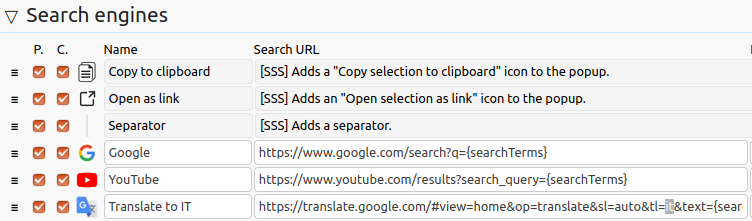
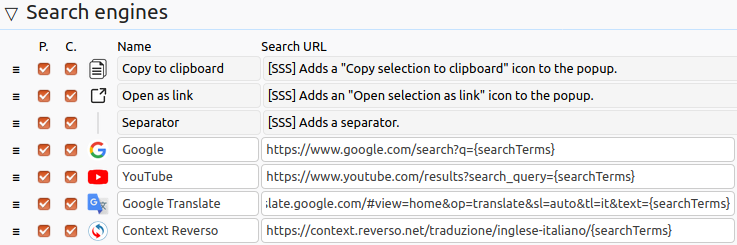
2020-09-28

Changed region(s): [[0.0, 0.0, 1.0, 1.0], [0.9986, 0.19, 1.0, 0.2443], [0.9986, 0.9774, 1.0, 1.0]]

diff --git a/_posts/2020-09-20-browser-configuration.md b/_posts/2020-09-20-browser-configuration.md
@@ -13,7 +13,11 @@ mathjax: "true"
 1. [ClearURLs](https://addons.mozilla.org/it/firefox/addon/clearurls/): rimuove il redirect di Google e altri siti. Richiede diversi permessi ma è tutto [giustificato](https://gitlab.com/KevinRoebert/ClearUrls/-/issues/159). Il redirect consiste in una estensione automatica dei link (ad esempio una ricerca su Google) in modo tale da tracciare chi usa quel collegamento. Questo significa che oltre a regalare i dati di dove navighi, rallenti la tua connessione perché prima di raggiungere il sito d'interesse passi dall'intermediario che ti sta tracciando con il link "sporco". Hai mai notato che ogni tanto se copi un collegamento risultante dalla ricerca su Google, questo è molto più lungo e contorto di quello che ti aspettavi?
 1. [Privacy Badger](https://addons.mozilla.org/it/firefox/addon/privacy-badger17/): blocca trackers
 1. [HTTPS Everywhere](https://addons.mozilla.org/it/firefox/addon/https-everywhere/): il protocollo HTTP manca dei meccanismi di sicurezza, questa estensione forza il sito alla versione HTTPS se presente ma non è il default
-1. [Swift Selection Search](https://addons.mozilla.org/en-US/firefox/addon/swift-selection-search/): evidenzia una parola con doppio click, si aprirà un popup che ti da delle opzioni configurabili, come cerca su Google, traduci etc. Qui la mia semplice configurazione, ho modificato solo "Translate to IT" sostituendo la parte finale "en&text={searchTerms}" in "it&text={searchTerms}", così da poter tradurre la parola evidenziata in italiano. Si può aggiungere facilmente anche Context Reverso con la stringa "https://context.reverso.net/traduzione/inglese-italiano/{searchTerms}".
+1. [Swift Selection Search](https://addons.mozilla.org/en-US/firefox/addon/swift-selection-search/): evidenzia una parola con doppio click, si aprirà un popup che ti da delle opzioni configurabili, come cerca su Google, traduci etc. Qui la mia semplice configurazione, ho modificato solo "Translate to IT" sostituendo la parte finale *en&text={searchTerms}*" in "*it&text={searchTerms}*", così da poter tradurre la parola evidenziata in italiano. Si può aggiungere facilmente anche Context Reverso con la stringa "*https://context.reverso.net/traduzione/inglese-italiano/{searchTerms}*". Personalmente preferisco attivare l'opzione 
+<span style="font-size: 3mm">
+Popup/icons behaviour → Left mouse button click → Open in new tab (next to current)   
+</span>
+così si apre in una nuova finestra.
 ![png](/assets/images/swift_selection_search.png)
 1. (Avanzato) [NoScript](https://addons.mozilla.org/it/firefox/addon/noscript/): ogni volta che si naviga un sito si sceglie se considerarlo come TRUSTED oppure si concedono solo alcune caratteristiche. Al primo utilizzo ho configurato tutti i siti pre-impostati TRUSTED in Default e in Appereance ho attivato High contrast per rendere più fruibile il popup. NB: se non si abilita come TRUSTED Google, ClearURLS non funge da clear link (immagino valga anche per Facebook e altri trash-redirect-linkers).
 
@@ -22,6 +26,7 @@ mathjax: "true"
 1. [Hard Refresh Button](https://addons.mozilla.org/it/firefox/addon/hard-refresh-button/): refresh della pagina senza uso cache
 1. [Facebook Container](https://addons.mozilla.org/it/firefox/addon/facebook-container/): non necessario per me perché uso un browser a parte per usare solo facebook, ma è essenziale per chi usa un solo browser per limitare che facebook tracci la tua attività web.
 1. [KeePass](https://addons.mozilla.org/firefox/addon/keefox/): ottimo gestore di password opensource. Non è semplicemente un'estensione ma si incronizza con il programma in locale. Su Ubuntu 18.04 l'installazione è un po' più complessa se si vuole usare [Google Drive](https://www.albgri.com/ubuntu-software/#keepass-2x) per mantenere il database di password online. Su [Windows](https://www.albgri.com/windows10-software/#keepass-2x) c'è una procedura analoga se lo si vuole sincronizzare con Google Drive.
+1. [Search by Image](https://addons.mozilla.org/it/firefox/addon/search_by_image/) ricerca l'immagine su Google immagini ed altri simili. Fa risparmiare tempo!
 
 **Estensioni abbandonate**
 1. [Ghostery](https://addons.mozilla.org/it/firefox/addon/ghostery/): blocca trackers e velocizza la navigazione, ma a quanto pare è opensource solo dal 2018 e raccoglieva un bel po' di dati. uBlock dicono sia sufficiente, ma Privacy Badger è una buona alternativa, è più sicuro e non va in conflitto con uBlock.
